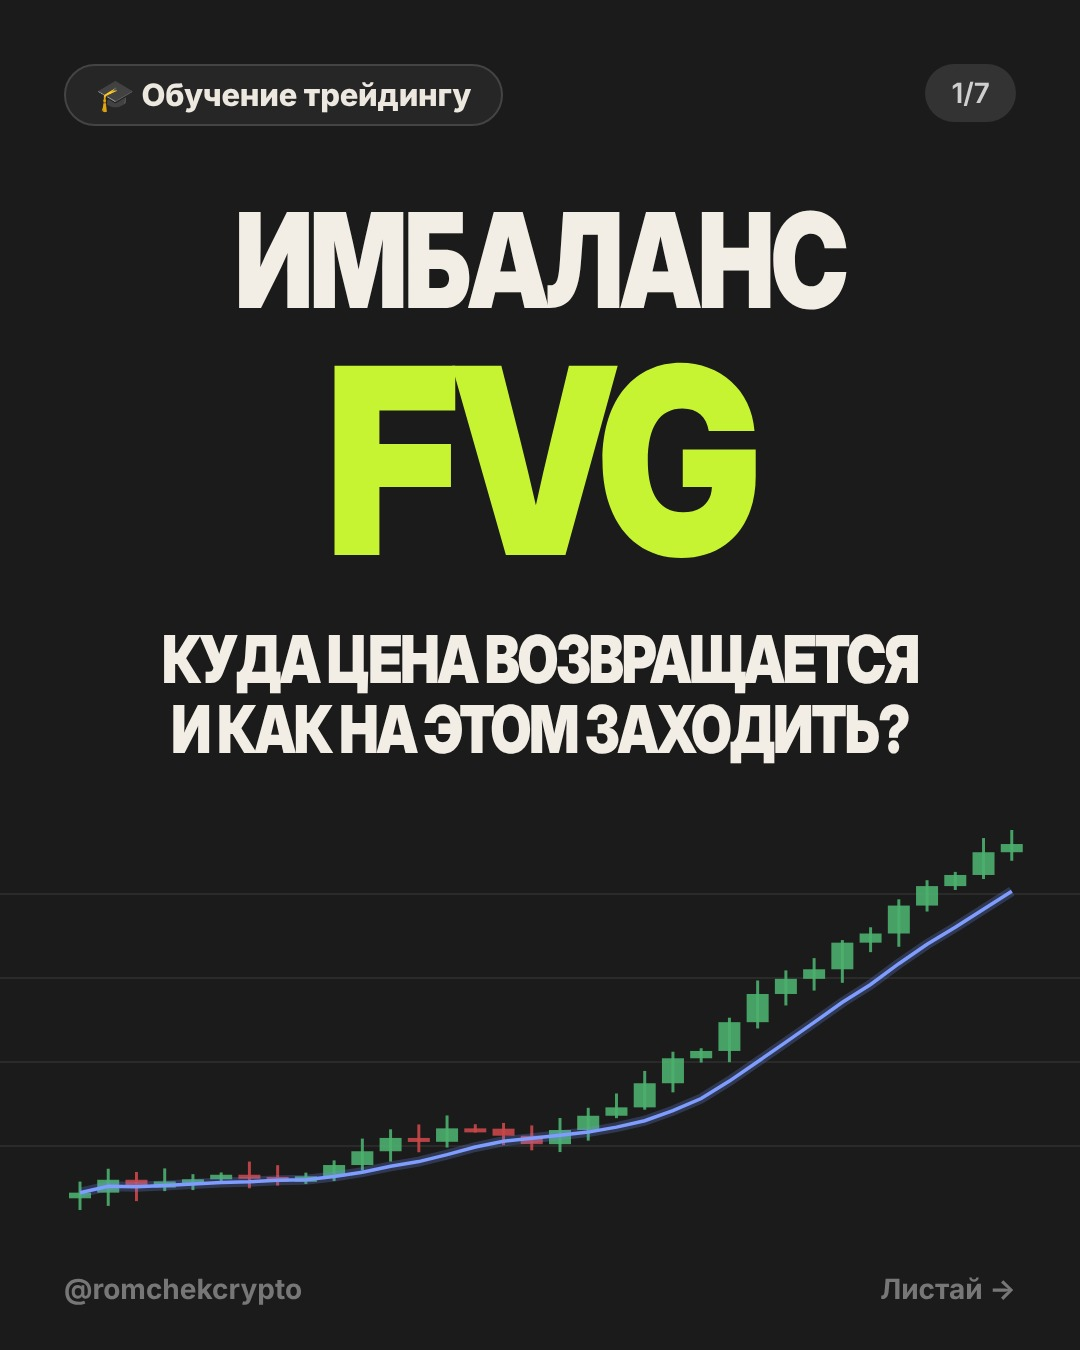
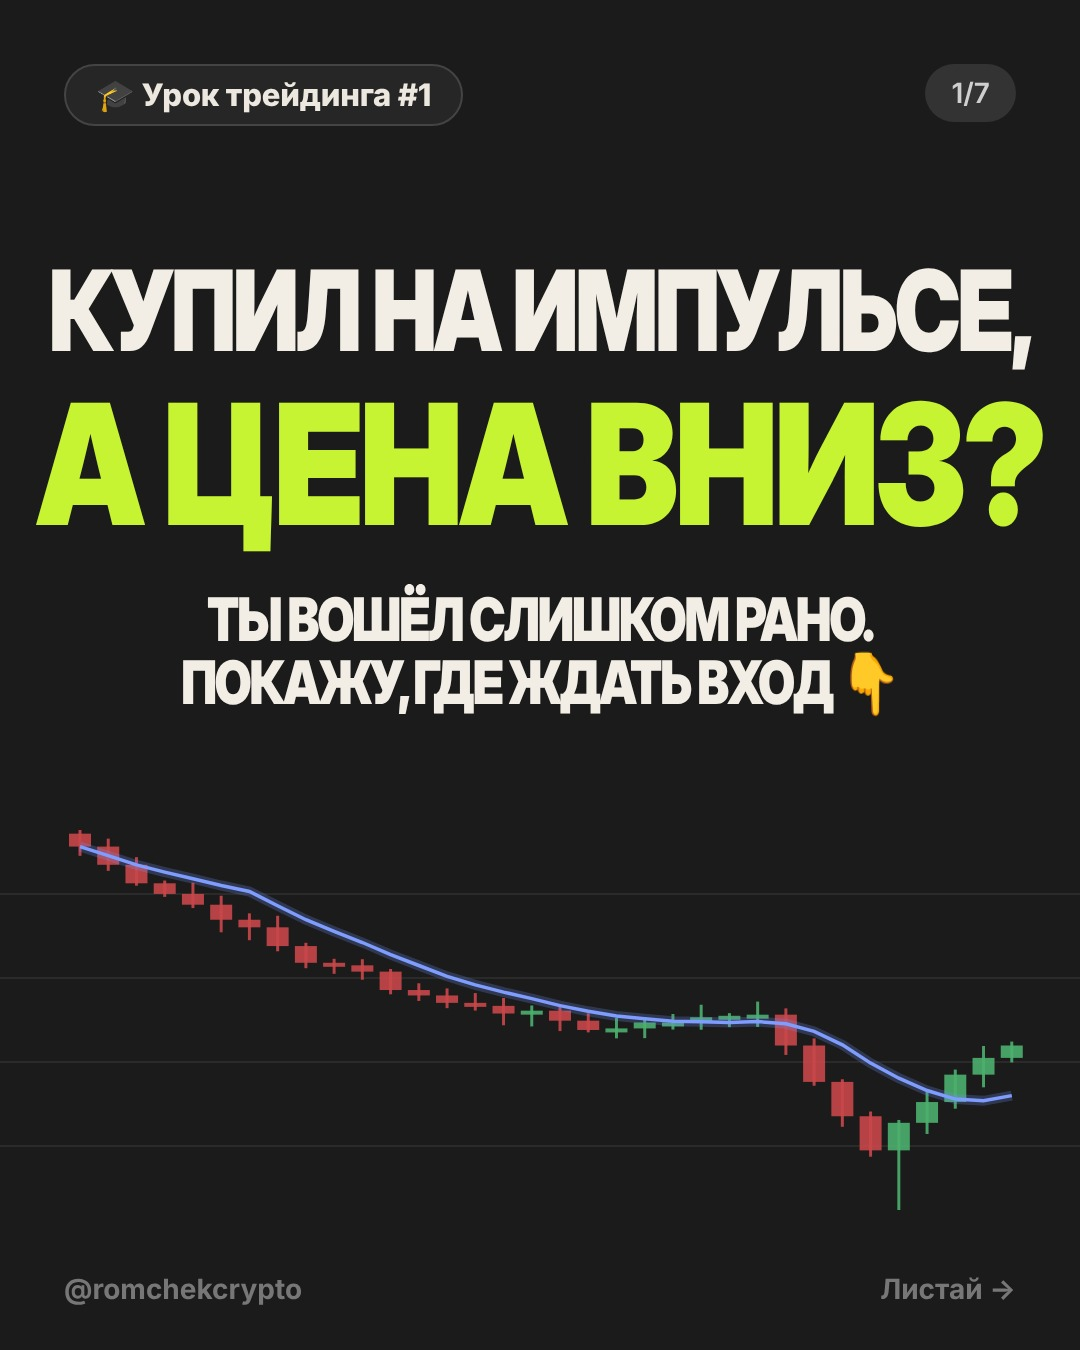
FVG 18:00: pain-first cover; playbook rule: cover = reader's pain
Claude-Session: https://claude.ai/code/session_01J5ePgt6e72igxD4CNH1QLb

diff --git a/growth/PLAYBOOK.md b/growth/PLAYBOOK.md
@@ -35,7 +35,10 @@ sends/shares per reach (IGPO27 ÷ IGPO14) — the #1 signal for non-follower rea
 ## Current rules
 1. **Hashtags: max 5** (Instagram limit since late 2025; extra ones hurt). Always #биткоин #обзорбиткоина
    #альтсезон + 2 by topic.
-2. **Cover = hook, not a title.** 3–7 words, a concrete number or conflict, a curiosity gap
+2. **Cover = the reader's PAIN or trigger, never a term.** (Owner, 2026-11-18: «ИМБАЛАНС / FVG» has no trigger,
+   nobody wants to read it.) Describe a painful situation the reader has lived: «Купил на импульсе, а цена вниз?»,
+   «Стоп выбило — и цена пошла в твою сторону?», «Ликвидировали на шпильке?». The term goes to slide 2.
+   **Cover = hook, not a title.** 3–7 words, a concrete number or conflict, a curiosity gap
    ("Почему биткоин не растёт, хотя Nvidia взлетела?", "90% трейдеров ставят стоп сюда — и теряют").
    No jargon a beginner won't understand on the cover; jargon goes on slide 2.
 3. **Slide 2 pays off the cover immediately** (the answer in one line), then details.
